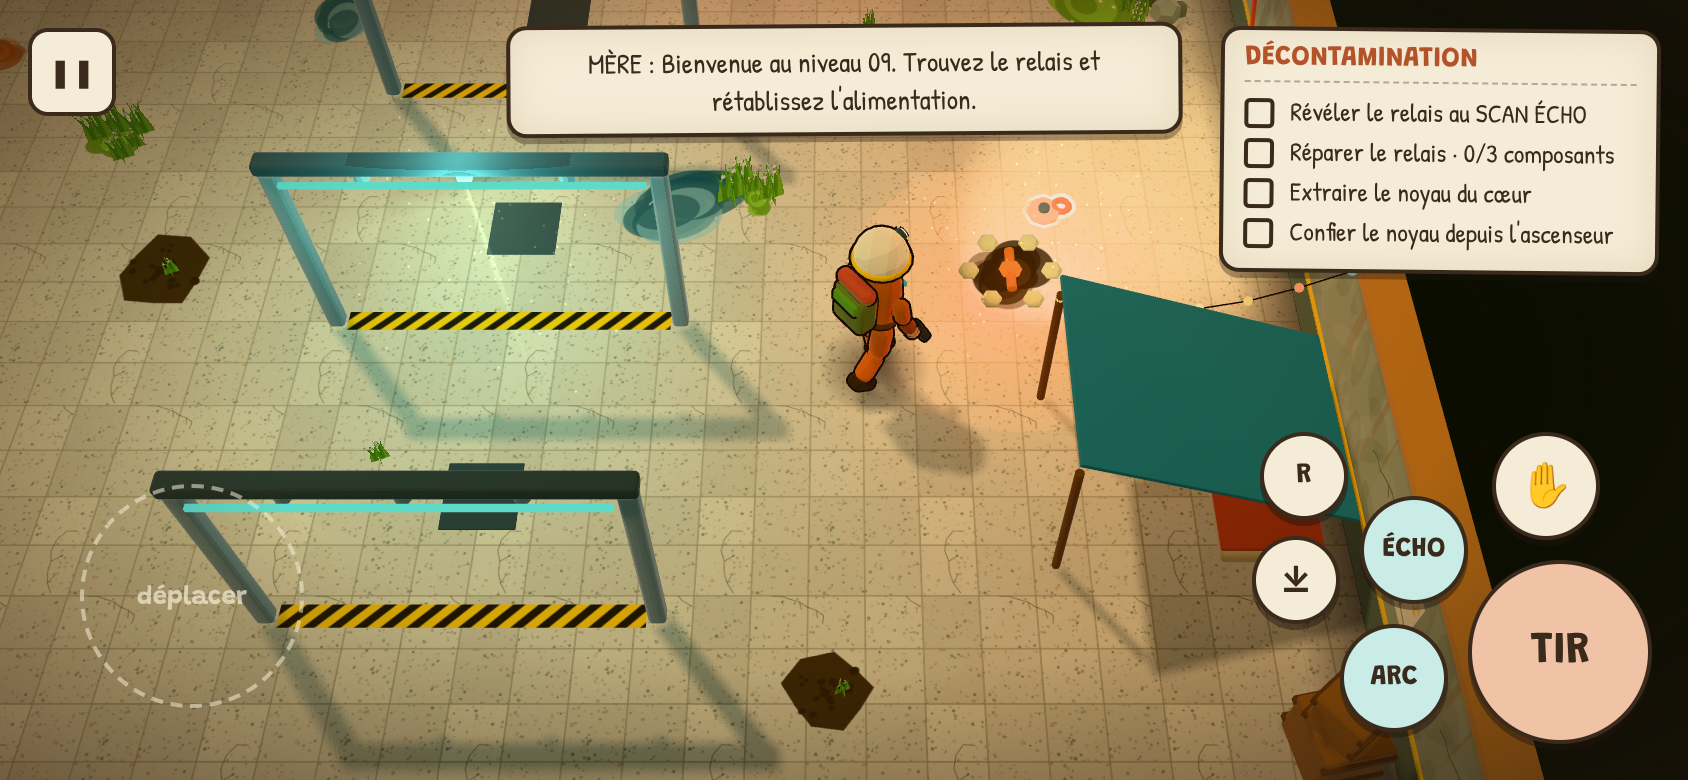
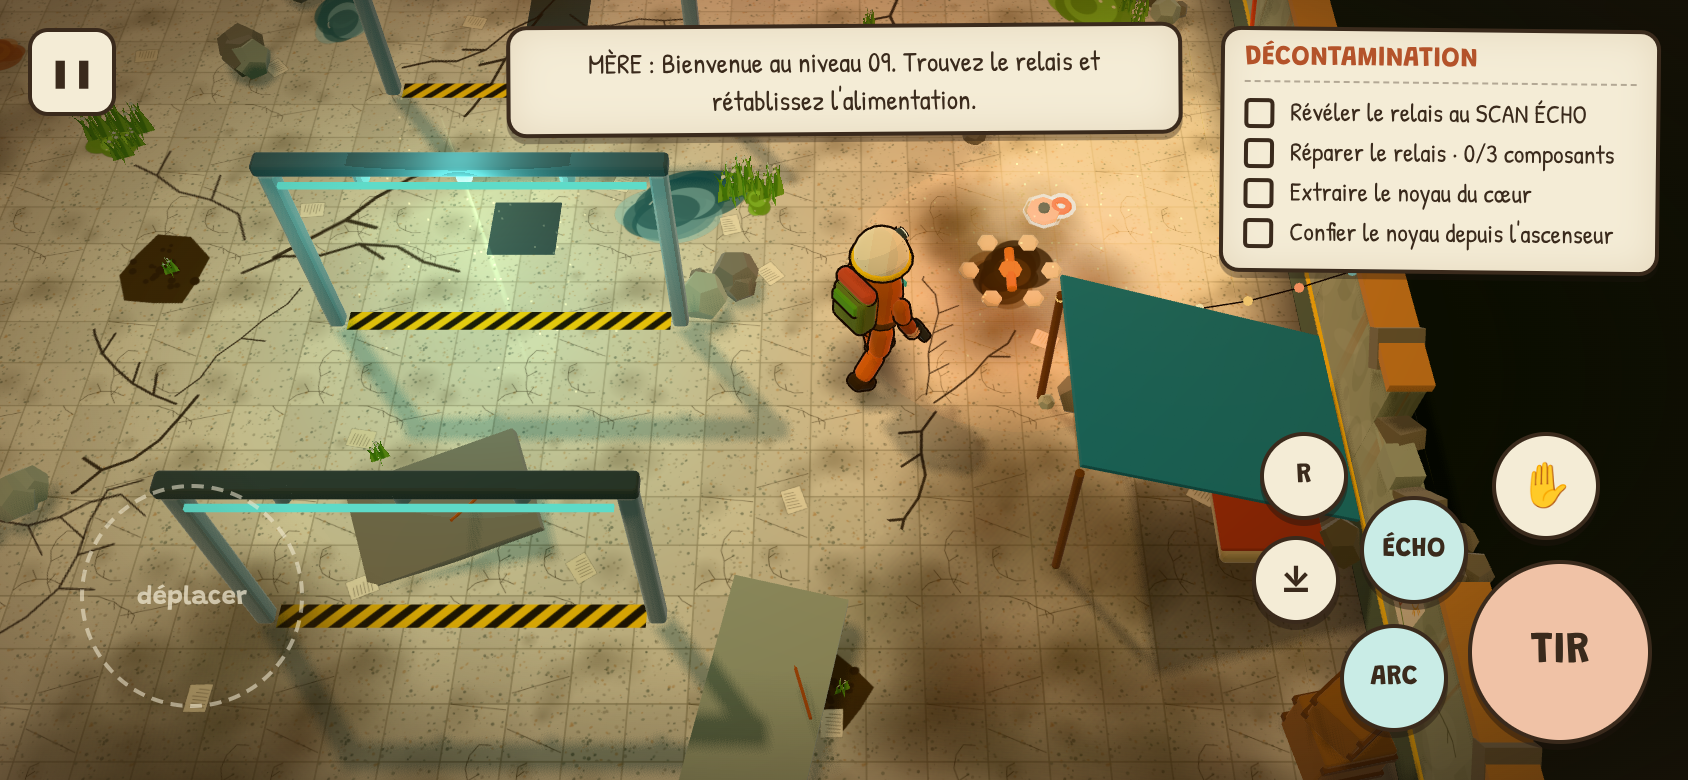
feat(art): dirtier, ruined silo dressing
Walls split into segments with collapsed sections, exposed rebar and chipped
caps; floor cracks, soot and dirt patches, paper litter, fallen slabs,
survivor graffiti and tally marks; dirtier tile texture.

Claude-Session: https://claude.ai/code/session_011774ePaaWG17xNnKRR3ZQm

diff --git a/game/render/world.ts b/game/render/world.ts
@@ -13,7 +13,7 @@ import type { Box } from "../collision";
 import { glow, toon } from "./toon";
 import { PALETTE } from "./palette";
 import {
-  beamTexture, blobTexture, concreteTexture, drawingTexture, dustTexture, grimeTexture, holeTexture, liftTexture, rng, signTexture, tilesTexture,
+  beamTexture, blobTexture, concreteTexture, crackTexture, dirtTexture, paperTexture, sprayTexture, drawingTexture, dustTexture, grimeTexture, holeTexture, liftTexture, rng, signTexture, tilesTexture,
 } from "./textures";
 import {
   block, can, cable, crate, cylinder, decal, grass, hazardStrip, mesh, overgrowth, panel, rubble, signBoard, stringLights,
@@ -62,24 +62,69 @@ function wall(root: Group, x0: number, z0: number, x1: number, z1: number): void
   const alongX = Math.abs(x1 - x0) > Math.abs(z1 - z0);
   const cx = (x0 + x1) / 2;
   const cz = (z0 + z1) / 2;
-  const texture = concreteTexture().clone();
-  texture.needsUpdate = true;
-  texture.repeat.set(length / 2.5, 0.64);
-  const body = mesh(new BoxGeometry(alongX ? length : WALL_THICKNESS, WALL_HEIGHT, alongX ? WALL_THICKNESS : length), toon("#ffffff", { map: texture, rim: 0.12 }), cx, WALL_HEIGHT / 2, cz);
-  root.add(body);
-  // Plinthe sombre et tranche colorée (la coupe de la maison de poupée).
+  const r = rng(Math.round(Math.abs(cx * 31 + cz * 17 + length * 7)) + 1);
+  // Repère local : `u` le long du mur, `v` à travers.
+  const at = (u: number, v = 0): [number, number] => (alongX ? [cx + u, cz + v] : [cx + v, cz + u]);
+  const size = (along: number, across: number): [number, number] => (alongX ? [along, across] : [across, along]);
+
+  // Le mur est découpé en tronçons : la plupart intacts, certains effondrés (béton ébréché, fer à béton).
+  const pieces = Math.max(1, Math.round(length / 1.8));
+  const piece = length / pieces;
+  for (let i = 0; i < pieces; i++) {
+    const u = -length / 2 + piece * (i + 0.5);
+    const broken = pieces > 2 && r() < 0.3;
+    const height = broken ? 0.85 + r() * 0.4 : WALL_HEIGHT;
+    const texture = concreteTexture().clone();
+    texture.needsUpdate = true;
+    texture.repeat.set(piece / 2.5, height / 2.5);
+    texture.offset.set(r(), 0);
+    const [w, d] = size(piece + 0.002, WALL_THICKNESS);
+    const [px, pz] = at(u);
+    root.add(mesh(new BoxGeometry(w, height, d), toon("#ffffff", { map: texture, rim: 0.12 }), px, height / 2, pz));
+    if (!broken) {
+      const [cw, cd] = size(piece + 0.02, WALL_THICKNESS + 0.08);
+      // Tranche colorée (coupe de la maison de poupée), parfois ébréchée.
+      root.add(mesh(new BoxGeometry(cw, 0.09, cd), toon(PALETTE.wallCap), px, WALL_HEIGHT + 0.045, pz));
+      if (r() < 0.35) {
+        const [nx, nz] = at(u + (r() - 0.5) * piece * 0.6);
+        const notch = mesh(new BoxGeometry(0.35, 0.2, WALL_THICKNESS + 0.1), toon(PALETTE.concreteDark), nx, WALL_HEIGHT - 0.02, nz);
+        notch.rotation.set(0.3, alongX ? 0 : Math.PI / 2, 0.4);
+        root.add(notch);
+      }
+    } else {
+      // Sommet déchiqueté : blocs de béton inclinés + tiges de fer à béton tordues.
+      for (let k = 0; k < 4; k++) {
+        const [bx, bz] = at(u + (r() - 0.5) * piece * 0.9, (r() - 0.5) * 0.1);
+        const chunk = mesh(new BoxGeometry(0.22 + r() * 0.25, 0.18 + r() * 0.2, WALL_THICKNESS * (0.7 + r() * 0.3)), toon(r() > 0.5 ? PALETTE.concrete : PALETTE.concreteDark), bx, height + 0.06, bz);
+        chunk.rotation.set(r() - 0.5, alongX ? r() * 0.4 : Math.PI / 2 + r() * 0.4, r() - 0.5);
+        root.add(chunk);
+      }
+      for (let k = 0; k < 3; k++) {
+        const [bx, bz] = at(u + (r() - 0.5) * piece * 0.8);
+        const rod = mesh(new CylinderGeometry(0.018, 0.018, 0.5 + r() * 0.5, 5), toon(PALETTE.rust), bx, height + 0.2, bz);
+        rod.rotation.set((r() - 0.5) * 0.9, 0, (r() - 0.5) * 0.9);
+        root.add(rod);
+      }
+      // Gravats tombés de part et d'autre.
+      for (const side of [-1, 1]) {
+        const [gx, gz] = at(u, side * (WALL_THICKNESS / 2 + 0.35));
+        rubble(root, gx, gz, 5, Math.floor(r() * 1000), 0.35);
+      }
+    }
+  }
+  // Plinthe sombre et liseré jaune, sur toute la longueur.
+  const [sw, sd] = size(length + 0.02, WALL_THICKNESS + 0.04);
+  root.add(mesh(new BoxGeometry(sw, 0.42, sd), toon(PALETTE.wainscot), cx, 0.21, cz));
+  const [tw, td] = size(length + 0.02, WALL_THICKNESS + 0.045);
+  root.add(mesh(new BoxGeometry(tw, 0.05, td), toon(PALETTE.yellow), cx, 0.44, cz, false));
   // Salissures au pied du mur, des deux côtés (fausse occlusion ambiante).
   for (const side of [-1, 1]) {
-    const grime = decal(root, grimeTexture(), alongX ? cx : cx + side * (WALL_THICKNESS / 2 + 0.3), alongX ? cz + side * (WALL_THICKNESS / 2 + 0.3) : cz, alongX ? length : 0.6, alongX ? 0.6 : length, 0, 0.008);
-    grime.rotation.z = alongX ? (side > 0 ? Math.PI : 0) : (side > 0 ? Math.PI / 2 : -Math.PI / 2);
-    if (!alongX) grime.scale.set(length, 0.6, 1);
+    const [gx, gz] = at(0, side * (WALL_THICKNESS / 2 + 0.3));
+    const grime = decal(root, grimeTexture(), gx, gz, 1, 1, 0, 0.008);
+    grime.scale.set(length, 0.6, 1);
+    // La partie sombre du dégradé touche le mur.
+    grime.rotation.z = (alongX ? 0 : Math.PI / 2) + (side < 0 ? Math.PI : 0);
   }
-  const skirt = mesh(new BoxGeometry(alongX ? length + 0.02 : WALL_THICKNESS + 0.04, 0.42, alongX ? WALL_THICKNESS + 0.04 : length + 0.02), toon(PALETTE.wainscot), cx, 0.21, cz);
-  root.add(skirt);
-  const stripe = mesh(new BoxGeometry(alongX ? length + 0.02 : WALL_THICKNESS + 0.045, 0.05, alongX ? WALL_THICKNESS + 0.045 : length + 0.02), toon(PALETTE.yellow), cx, 0.44, cz, false);
-  root.add(stripe);
-  const cap = mesh(new BoxGeometry(alongX ? length + 0.04 : WALL_THICKNESS + 0.08, 0.09, alongX ? WALL_THICKNESS + 0.08 : length + 0.04), toon(PALETTE.wallCap), cx, WALL_HEIGHT + 0.045, cz);
-  root.add(cap);
 }
 
 function doorFrame(root: Group, colliders: Box[], index: number): void {
@@ -150,6 +195,30 @@ function dust(root: Group, centers: [number, number, number][], perCenter: numbe
   points.userData.centers = centers;
   root.add(points);
   return points;
+}
+
+/** Couche de ruine commune : fissures, salissures, papiers, dalles tombées. */
+function ruin(root: Group, x0: number, x1: number, z0: number, z1: number, seed: number, slabs: number, density = 1): void {
+  const r = rng(seed);
+  const rx = () => x0 + 0.8 + r() * (x1 - x0 - 1.6);
+  const rz = () => z0 + 0.8 + r() * (z1 - z0 - 1.6);
+  const area = (x1 - x0) * (z1 - z0) * density;
+  for (let i = 0; i < Math.round(area / 22); i++) decal(root, crackTexture(1 + (i % 4)), rx(), rz(), 2 + r() * 2, 2 + r() * 2, r() * 6, 0.011);
+  for (let i = 0; i < Math.round(area / 30); i++) decal(root, dirtTexture(1 + (i % 3)), rx(), rz(), 3 + r() * 3, 3 + r() * 3, r() * 6, 0.009);
+  for (let i = 0; i < Math.round(area / 9); i++) {
+    const sheet = decal(root, paperTexture(1 + (i % 4)), rx(), rz(), 0.22, 0.28, r() * 6, 0.02);
+    sheet.renderOrder = 2;
+  }
+  for (let i = 0; i < Math.round(area / 25); i++) rubble(root, rx(), rz(), 3 + Math.floor(r() * 4), Math.floor(r() * 9999), 0.3);
+  // Dalles de béton tombées, inclinées contre le sol.
+  for (let i = 0; i < slabs; i++) {
+    const slab = mesh(new BoxGeometry(1.2 + r() * 0.8, 0.14, 0.8 + r() * 0.6), toon(r() > 0.5 ? PALETTE.concrete : PALETTE.concreteDark), rx(), 0.2, rz());
+    slab.rotation.set(0.15 + r() * 0.2, r() * 3, (r() - 0.5) * 0.3);
+    root.add(slab);
+    const rod = mesh(new CylinderGeometry(0.015, 0.015, 0.7, 5), toon(PALETTE.rust), slab.position.x + 0.3, 0.35, slab.position.z);
+    rod.rotation.set(0.9, r() * 3, 0.4);
+    root.add(rod);
+  }
 }
 
 // ——— Objets interactifs ———
@@ -282,6 +351,9 @@ function decorateRefuge(root: Group, flickers: Flicker[]): void {
   for (const x of [-4.7, 4.7]) cylinder(root, 0.03, 2.1, PALETTE.woodDark, x, 0, 12.6);
   stringLights(root, -4.7, 12.6, 4.7, 12.6, 2.05, 14);
   signBoard(root, "ASCENSEUR / REFUGE MOBILE\nÉTAGE 009 — AUCUNE LIAISON SURFACE", 0, 1.25, 12.62, 2.6, 0.55, Math.PI, { bg: PALETTE.paper, fg: PALETTE.outline, border: PALETTE.rust });
+  ruin(root, -5, 5, 4, 13, 101, 0, 0.45);
+  // Décompte des jours de survivants griffonné au sol, près du matelas.
+  decal(root, sprayTexture("IIII IIII IIII II", "rgba(240,232,210,0.85)"), 2.4, 12.4, 1.6, 0.45, 0, 0.017);
   addLight(root, flickers, 0, 2.3, 8.4, "#ffd9a0", 9, 10, 0.08, 1);
   beam(root, 0, 2.3, 8.4, 1.2, "#ffe6b0");
 }
@@ -392,6 +464,12 @@ function decorateDecon(root: Group, flickers: Flicker[]): void {
   decal(root, blobTexture("scorch"), 2.8, 1.2, 1.6, 1.2, 0.8);
   cable(root, -7.75, -7.2, 1.0);
   cable(root, 7.75, -8.6, 1.2, PALETTE.danger);
+
+  ruin(root, -8, 8, -12, 4, 202, 3);
+  decal(root, sprayTexture("NE PAS\nENTRER", "rgba(216,69,43,0.9)"), -3.6, -11.0, 2.4, 0.8, 0, 0.017);
+  decal(root, sprayTexture("ILS MENTENT", "rgba(240,232,210,0.8)"), 3.6, 0.8, 2.6, 0.7, -0.15, 0.017);
+  decal(root, dirtTexture(2), 5.0, -5.6, 3.2, 3.2, 0, 0.01);
+  panel(root, sprayTexture("→ SURFACE ?", "rgba(242,194,48,0.95)"), 7.83, 1.05, -7.2, 1.3, 0.42, -Math.PI / 2);
 
   // Alarme rouge près du sas fermé, qui grésille.
   addLight(root, flickers, 2.3, 1.9, -11.6, "#ff5a36", 7, 7, 0.9, 4);

diff --git a/game/render/textures.ts b/game/render/textures.ts
@@ -81,7 +81,22 @@ export function tilesTexture(): Texture {
       g.beginPath(); g.moveTo(i * cell, 0); g.lineTo(i * cell, h); g.stroke();
       g.beginPath(); g.moveTo(0, i * cell); g.lineTo(w, i * cell); g.stroke();
     }
-    for (let k = 0; k < 3; k++) crack(g, r, r() * w, r() * h, 120 + r() * 80, "rgba(70,60,48,0.55)");
+    for (let k = 0; k < 5; k++) crack(g, r, r() * w, r() * h, 120 + r() * 80, "rgba(60,50,40,0.6)");
+    for (let k = 0; k < 12; k++) {
+      const x = r() * w, y = r() * h, rad = 20 + r() * 50;
+      const grad = g.createRadialGradient(x, y, 0, x, y, rad);
+      grad.addColorStop(0, "rgba(70,58,40,0.18)");
+      grad.addColorStop(1, "rgba(70,58,40,0)");
+      g.fillStyle = grad;
+      g.fillRect(x - rad, y - rad, rad * 2, rad * 2);
+    }
+    // Carreaux fendus en diagonale
+    g.strokeStyle = "rgba(60,50,40,0.5)";
+    g.lineWidth = 2;
+    for (let k = 0; k < 4; k++) {
+      const i = Math.floor(r() * 4), j = Math.floor(r() * 4);
+      g.beginPath(); g.moveTo(i * cell + 4, j * cell + r() * cell); g.lineTo((i + 1) * cell - 4, j * cell + r() * cell); g.stroke();
+    }
   });
 }
 
@@ -326,5 +341,67 @@ export function holeTexture(): Texture {
     g.fill();
     g.fillStyle = "#3a2c20";
     for (let k = 0; k < 20; k++) { g.beginPath(); g.arc(30 + r() * 68, 30 + r() * 68, 2 + r() * 4, 0, Math.PI * 2); g.fill(); }
+  }, false);
+}
+
+/** Grande fissure en découpe alpha, posée au sol ou sur un mur. */
+export function crackTexture(seed = 1): Texture {
+  return make("crack-" + seed, 256, 256, (g, w, h) => {
+    const r = rng(seed * 13);
+    g.clearRect(0, 0, w, h);
+    for (let k = 0; k < 3; k++) crack(g, r, w * 0.5 + (r() - 0.5) * 40, h * 0.5 + (r() - 0.5) * 40, 160, "rgba(40,30,22,0.85)", 3 - k * 0.8);
+  }, false);
+}
+
+/** Grande salissure irrégulière (suie, boue, poussière). */
+export function dirtTexture(seed = 1): Texture {
+  return make("dirt-" + seed, 256, 256, (g, w, h) => {
+    const r = rng(seed * 29);
+    g.clearRect(0, 0, w, h);
+    for (let k = 0; k < 40; k++) {
+      const x = w / 2 + (r() - 0.5) * w * 0.6;
+      const y = h / 2 + (r() - 0.5) * h * 0.6;
+      const radius = 10 + r() * 45;
+      const grad = g.createRadialGradient(x, y, 0, x, y, radius);
+      grad.addColorStop(0, `rgba(${50 + r() * 30},${40 + r() * 20},${28},0.22)`);
+      grad.addColorStop(1, "rgba(50,40,28,0)");
+      g.fillStyle = grad;
+      g.fillRect(x - radius, y - radius, radius * 2, radius * 2);
+    }
+  }, false);
+}
+
+/** Feuille de papier froissée, pour les détritus. */
+export function paperTexture(seed = 1): Texture {
+  return make("paper-" + seed, 64, 80, (g, w, h) => {
+    const r = rng(seed * 5);
+    g.fillStyle = r() > 0.5 ? "#efe6cc" : "#e2d7b8";
+    g.beginPath();
+    g.moveTo(4, 6); g.lineTo(w - 6, 2); g.lineTo(w - 2, h - 8); g.lineTo(6, h - 3);
+    g.closePath();
+    g.fill();
+    g.strokeStyle = "rgba(60,50,40,0.45)";
+    g.lineWidth = 2;
+    for (let y = 16; y < h - 12; y += 9) { g.beginPath(); g.moveTo(10, y); g.lineTo(w - 12 - r() * 16, y + 1); g.stroke(); }
+  }, false);
+}
+
+/** Inscription bombée à la peinture (graffiti de survivants). */
+export function sprayTexture(text: string, color: string): Texture {
+  return make("spray:" + text + color, 512, 160, (g, w, h) => {
+    g.clearRect(0, 0, w, h);
+    const lines = text.split("\n");
+    const size = Math.min(h / (lines.length * 1.1), (w * 1.5) / Math.max(...lines.map((l) => l.length)));
+    g.font = `${Math.floor(size)}px 'Patrick Hand', cursive`;
+    g.textAlign = "center";
+    g.textBaseline = "middle";
+    g.fillStyle = color;
+    g.shadowColor = color;
+    g.shadowBlur = 6;
+    lines.forEach((line, i) => g.fillText(line, w / 2, h / 2 + (i - (lines.length - 1) / 2) * size));
+    // Coulures
+    g.shadowBlur = 0;
+    const r = rng(text.length * 3);
+    for (let k = 0; k < 8; k++) g.fillRect(40 + r() * (w - 80), h / 2 + size * 0.3, 2, 8 + r() * 26);
   }, false);
 }

diff --git a/game/render/palette.ts b/game/render/palette.ts
@@ -3,7 +3,7 @@
 export const PALETTE = {
   outline: "#1e140d",
   concrete: "#a3ae9a",
-  concreteDark: "#77836f",
+  concreteDark: "#858277",
   wainscot: "#5f7064",
   wallCap: "#c98f55",
   tile: "#dcd5bf",
